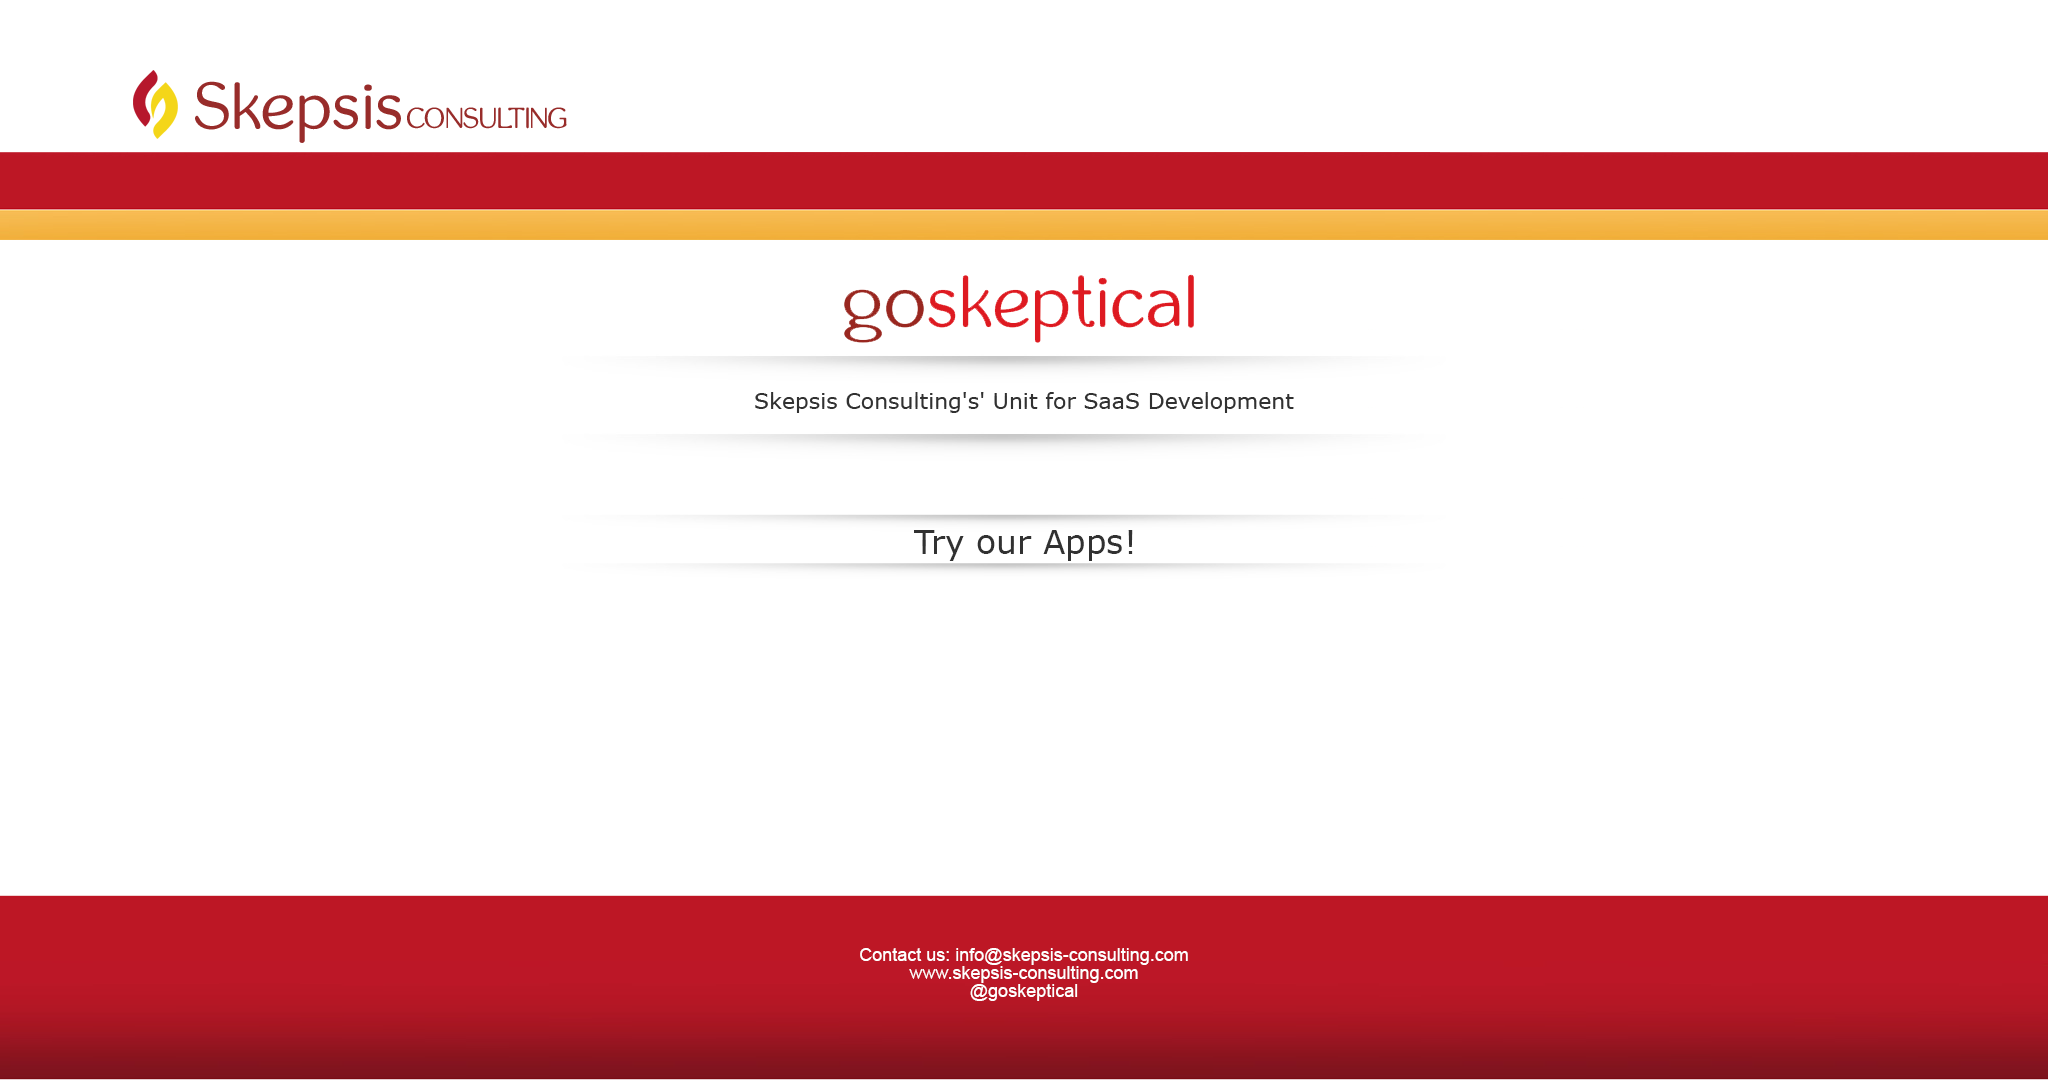
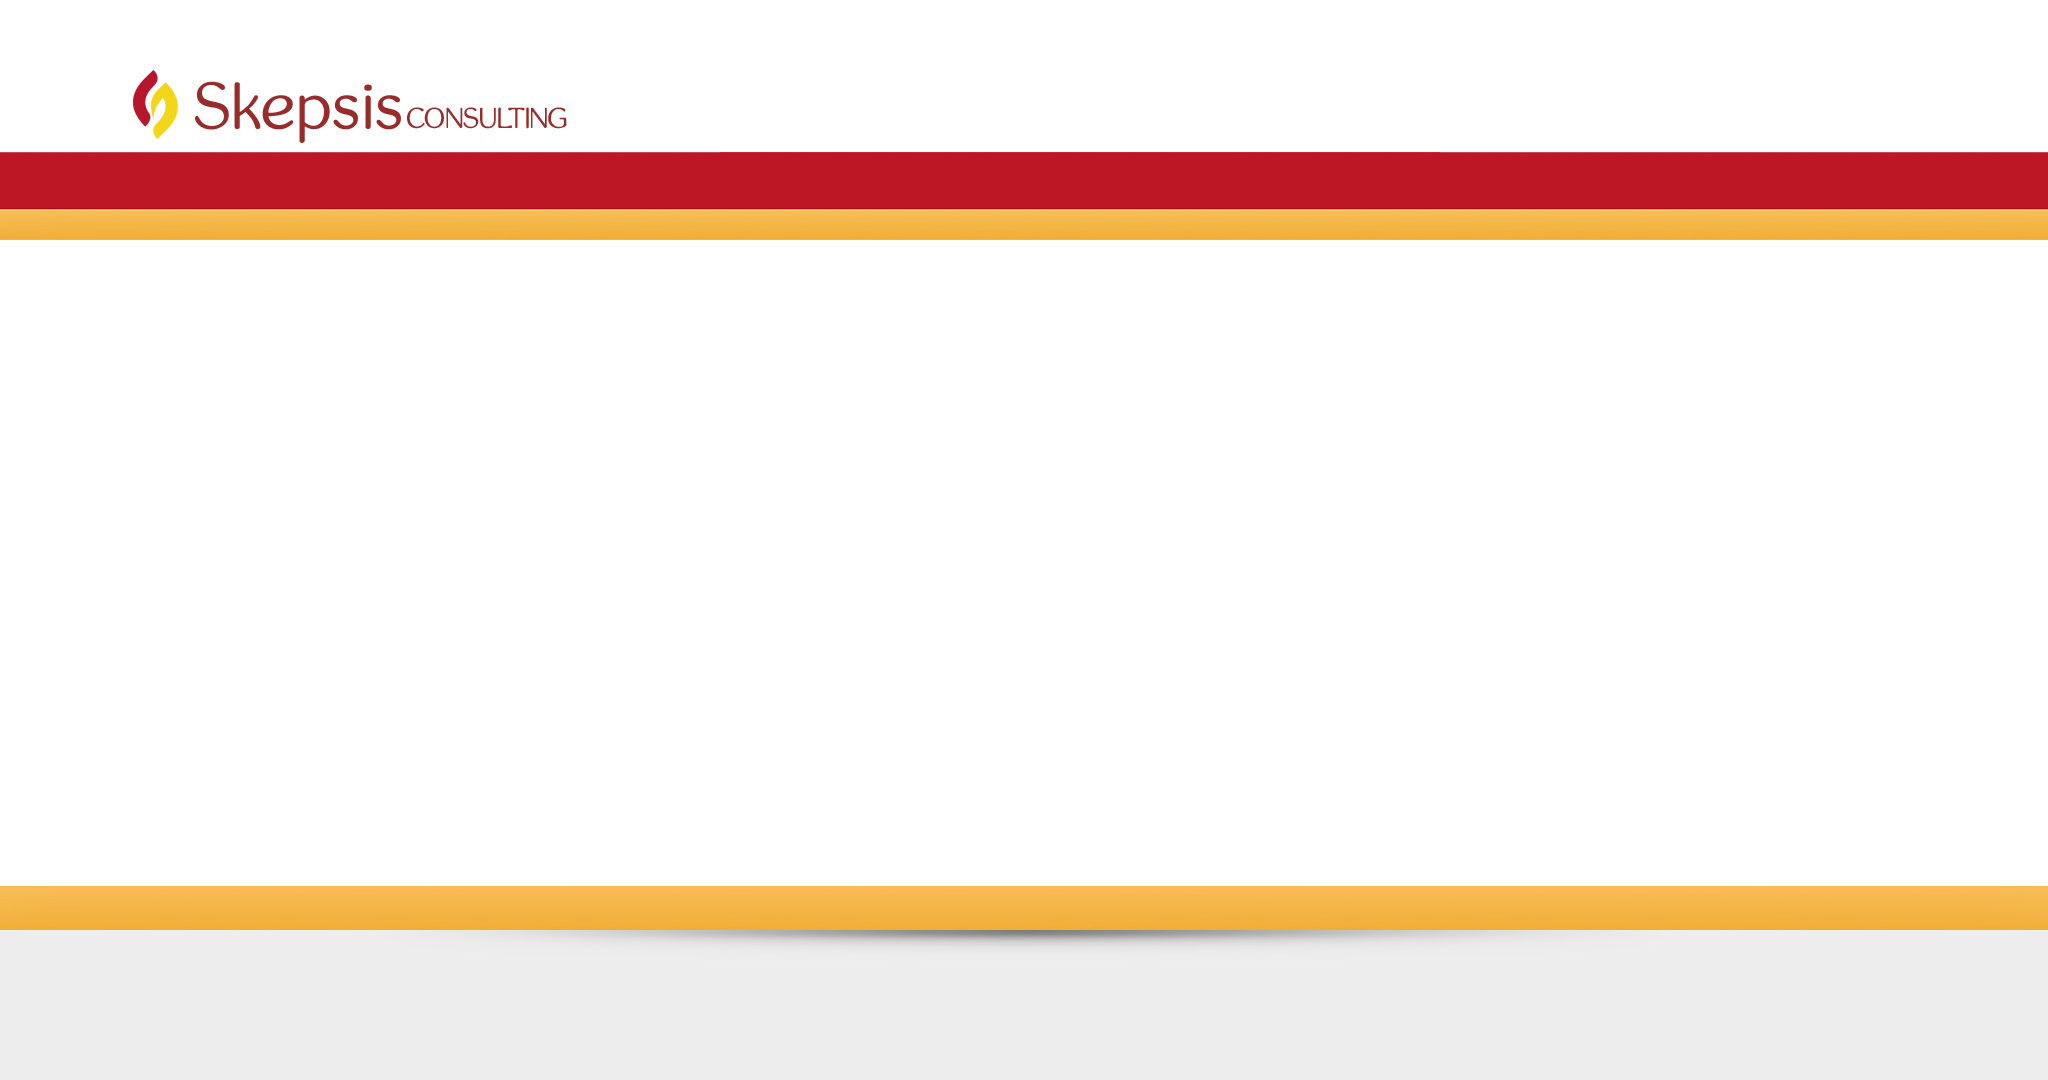
con bg

diff --git a/app/assets/stylesheets/scaffolds.scss b/app/assets/stylesheets/scaffolds.scss
@@ -1,0 +1,73 @@
+body {
+  background-color: #fff;
+  color: #333;
+  font-family: verdana, arial, helvetica, sans-serif;
+  font-size: 13px;
+  line-height: 18px;
+}
+
+p, ol, ul, td {
+  font-family: verdana, arial, helvetica, sans-serif;
+  font-size: 13px;
+  line-height: 18px;
+}
+
+pre {
+  background-color: #eee;
+  padding: 10px;
+  font-size: 11px;
+}
+
+a {
+  color: #000;
+
+  &:visited {
+    color: #666;
+  }
+
+  &:hover {
+    color: #fff;
+    background-color: #000;
+  }
+}
+
+div {
+  &.field, &.actions {
+    margin-bottom: 10px;
+  }
+}
+
+#notice {
+  color: green;
+}
+
+.field_with_errors {
+  padding: 2px;
+  background-color: red;
+  display: table;
+}
+
+#error_explanation {
+  width: 450px;
+  border: 2px solid red;
+  padding: 7px;
+  padding-bottom: 0;
+  margin-bottom: 20px;
+  background-color: #f0f0f0;
+
+  h2 {
+    text-align: left;
+    font-weight: bold;
+    padding: 5px 5px 5px 15px;
+    font-size: 12px;
+    margin: -7px;
+    margin-bottom: 0px;
+    background-color: #c00;
+    color: #fff;
+  }
+
+  ul li {
+    font-size: 12px;
+    list-style: square;
+  }
+}

diff --git a/app/assets/stylesheets/application.css b/app/assets/stylesheets/application.css
@@ -13,3 +13,9 @@
  *= require_tree .
  *= require_self
  */
+
+
+body {background: url("bg.png");
+    background-size: 100% 100%;}
+
+

diff --git a/config/environments/production.rb b/config/environments/production.rb
@@ -76,4 +76,9 @@ Rails.application.configure do
 
   # Do not dump schema after migrations.
   config.active_record.dump_schema_after_migration = false
+  
+  config.serve_static_assets = false
+  
+  config.assets.compress = true
+  
 end
